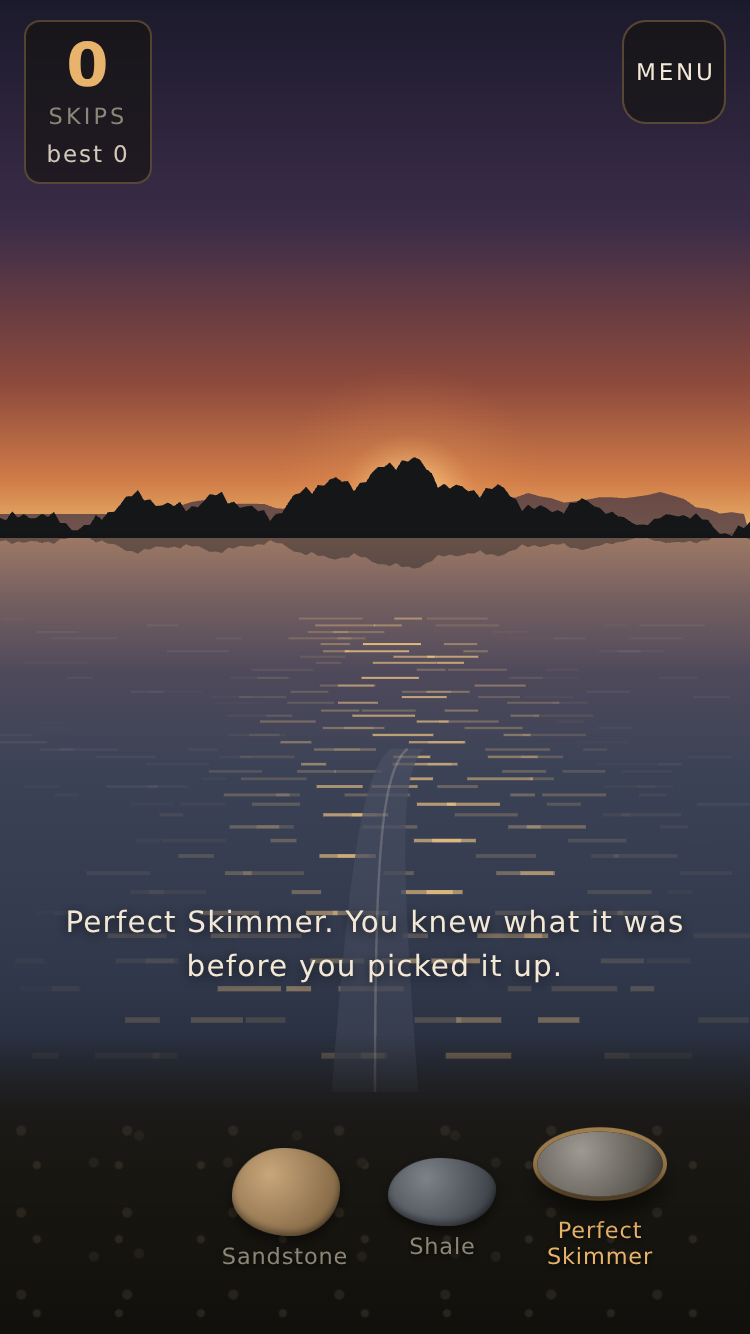
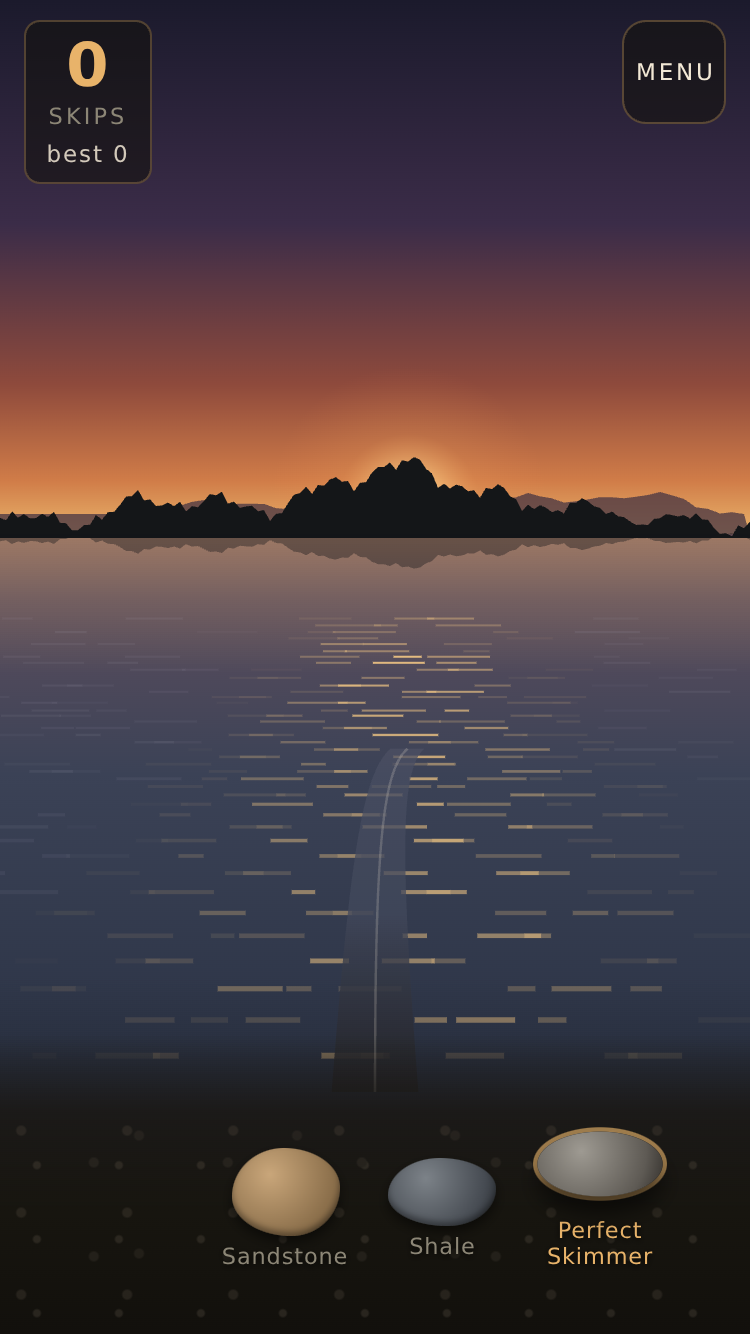
Gerplunk P1: the audio gate hears the trill, and the plunk stops burying its last tick
test/audio.mjs renders a throw's ticks and plunk offline through the same two
functions the speaker uses and counts onsets in the buffer: ten for a ten
skip throw plus the plunk, eighteen for the seventeen skip trill, every tick
within 16 ms of its skip. It found that a slow ending sank on its last hit so
the plunk landed on the last tick; a slow ending now takes a 120 ms beat in
sound and picture. Lap, crickets and the loon from the seeded stream. The
seam fades into the bank. Six gates, ALL GATES PASSED, audio watched to fail.

Claude-Session: https://claude.ai/code/session_01CohA1CK6e5eCWUdrKWPpuM

diff --git a/satellites/gerplunk/index.html b/satellites/gerplunk/index.html
@@ -1220,6 +1220,14 @@ var G = {
   lastSamples: null
 };
 function nowMs() { return performance.now(); }
+/* ⛔ WHEN THE STONE RUNS OUT OF SPEED, THE SINK IS A BEAT AFTER THE LAST HIT.
+   The model ends a 'slow' throw at the instant of its final skip, so the plunk
+   would land on top of the last tick of the trill and bury it: the audio gate
+   heard seventeen onsets for seventeen skips and a plunk. A stone that has
+   stopped skipping bobs once and goes under, so the page gives it 120 ms. A
+   tumble or a plow sinks at the failed contact, which is already after the
+   last tick by one whole leap. */
+function sinkTimeOf(res) { return res.ended === 'slow' ? res.time + 0.12 : res.time; }
 
 /* ============================ 12. SAVE ============================ */
 var SAVE = {
@@ -1294,33 +1302,61 @@ var AUDIO = (function () {
     return true;
   }
   function keep(node, until) { live.push({ node: node, until: until }); }
-  function tick(at, i) {
-    if (!ac) return;
-    var o = ac.createOscillator(), g = ac.createGain();
+  /* the tick and the plunk take their context and their output, so the same
+     two functions play through the speaker and render into the audio gate's
+     offline buffer. One voice, two listeners. */
+  function tick(ctx, out, at, i) {
+    var o = ctx.createOscillator(), g = ctx.createGain();
     o.type = 'sine'; o.frequency.value = SERIES[i % SERIES.length] * (i >= SERIES.length ? 0.5 : 1);
     g.gain.setValueAtTime(0.0001, at);
     g.gain.exponentialRampToValueAtTime(0.5, at + 0.006);
     g.gain.exponentialRampToValueAtTime(0.0001, at + 0.11);
-    o.connect(g); g.connect(master);
+    o.connect(g); g.connect(out);
     o.start(at); o.stop(at + 0.13);
-    keep(o, at + 0.13);
-    ticks++;
+    return o;
   }
-  function plunk(at) {
-    if (!ac) return;
-    var o = ac.createOscillator(), g = ac.createGain();
+  function plunk(ctx, out, at) {
+    var o = ctx.createOscillator(), g = ctx.createGain();
     o.type = 'sine'; o.frequency.setValueAtTime(150, at); o.frequency.exponentialRampToValueAtTime(95, at + 0.25);
     g.gain.setValueAtTime(0.0001, at);
     g.gain.exponentialRampToValueAtTime(0.7, at + 0.012);
     g.gain.exponentialRampToValueAtTime(0.0001, at + 0.42);
-    o.connect(g); g.connect(master); o.start(at); o.stop(at + 0.45); keep(o, at + 0.45);
+    o.connect(g); g.connect(out); o.start(at); o.stop(at + 0.45);
     /* the splash: 80 ms of noise through a low pass */
-    var n = ac.sampleRate * 0.1, buf = ac.createBuffer(1, n, ac.sampleRate), d = buf.getChannelData(0), i;
+    var n = Math.floor(ctx.sampleRate * 0.1), buf = ctx.createBuffer(1, n, ctx.sampleRate), d = buf.getChannelData(0), i;
     for (i = 0; i < n; i++) d[i] = (Math.random() * 2 - 1) * (1 - i / n);
-    var src = ac.createBufferSource(); src.buffer = buf;
-    var f = ac.createBiquadFilter(); f.type = 'lowpass'; f.frequency.value = 1800;
-    var ng = ac.createGain(); ng.gain.setValueAtTime(0.35, at); ng.gain.exponentialRampToValueAtTime(0.0001, at + 0.1);
-    src.connect(f); f.connect(ng); ng.connect(master); src.start(at); src.stop(at + 0.11); keep(src, at + 0.11);
+    var src = ctx.createBufferSource(); src.buffer = buf;
+    var f = ctx.createBiquadFilter(); f.type = 'lowpass'; f.frequency.value = 1800;
+    var ng = ctx.createGain(); ng.gain.setValueAtTime(0.35, at); ng.gain.exponentialRampToValueAtTime(0.0001, at + 0.1);
+    src.connect(f); f.connect(ng); ng.connect(out); src.start(at); src.stop(at + 0.11);
+    return [o, src];
+  }
+  /* THE AUDIO GATE'S EAR. Renders a result's ticks and plunk into an offline
+     buffer through the same two functions and reports the peak and the onsets
+     it can hear, so "one tick per skip" is measured in the sound rather than
+     counted in a variable. */
+  function renderOffline(res) {
+    var OAC = window.OfflineAudioContext || window.webkitOfflineAudioContext;
+    if (!OAC) return Promise.reject(new Error('no OfflineAudioContext'));
+    var sr = 22050, dur = sinkTimeOf(res) + 0.9, octx = new OAC(1, Math.ceil(sr * dur), sr);
+    var out = octx.createGain(); out.gain.value = 0.8; out.connect(octx.destination);
+    var t0 = 0.05, i;
+    for (i = 0; i < res.events.length; i++) tick(octx, out, t0 + res.events[i].t, i);
+    plunk(octx, out, t0 + sinkTimeOf(res));
+    return octx.startRendering().then(function (buf) {
+      var d = buf.getChannelData(0), peak = 0, j, k, sum, win = Math.floor(sr * 0.005), env = [];
+      for (j = 0; j < d.length; j++) if (Math.abs(d[j]) > peak) peak = Math.abs(d[j]);
+      for (j = 0; j + win <= d.length; j += win) {
+        sum = 0; for (k = 0; k < win; k++) sum += d[j + k] * d[j + k];
+        env.push(Math.sqrt(sum / win));
+      }
+      var onsets = [], armed = true;
+      for (j = 0; j < env.length; j++) {
+        if (armed && env[j] > 0.06) { onsets.push(j * 0.005 - t0); armed = false; }
+        else if (!armed && env[j] < 0.015) armed = true;
+      }
+      return { peak: peak, onsets: onsets, seconds: dur };
+    });
   }
   function setdown() {
     if (!ac) return;
@@ -1329,6 +1365,59 @@ var AUDIO = (function () {
     g.gain.setValueAtTime(0.0001, at); g.gain.exponentialRampToValueAtTime(0.12, at + 0.01);
     g.gain.exponentialRampToValueAtTime(0.0001, at + 0.08);
     o.connect(g); g.connect(master); o.start(at); o.stop(at + 0.09);
+  }
+  /* THE AMBIENCE. Water lap as filtered noise swells every three to six
+     seconds, a cricket bed as a 4 kHz chirp train, and a loon every forty to
+     ninety seconds: a sine gliding 660 to 880 with vibrato over 1.2 s. The
+     timings come from the seeded ambient stream so the same evening is the
+     same evening. Gains are small on purpose; the ticks are the score. */
+  var amb = null;
+  function noiseBuf(sec) {
+    var n = Math.floor(ac.sampleRate * sec), b = ac.createBuffer(1, n, ac.sampleRate), d = b.getChannelData(0), i;
+    for (i = 0; i < n; i++) d[i] = Math.random() * 2 - 1;
+    return b;
+  }
+  function lap(at, rng) {
+    var src = ac.createBufferSource(); src.buffer = noiseBuf(1.2);
+    var f = ac.createBiquadFilter(); f.type = 'bandpass'; f.frequency.value = 320 + rng() * 500; f.Q.value = 0.7;
+    var g = ac.createGain();
+    g.gain.setValueAtTime(0.0001, at);
+    g.gain.exponentialRampToValueAtTime(0.05 + rng() * 0.04, at + 0.35 + rng() * 0.3);
+    g.gain.exponentialRampToValueAtTime(0.0001, at + 1.1);
+    src.connect(f); f.connect(g); g.connect(master); src.start(at); src.stop(at + 1.2);
+  }
+  function chirp(at, rng) {
+    var o = ac.createOscillator(), g = ac.createGain(), am = ac.createOscillator(), ag = ac.createGain();
+    o.type = 'sine'; o.frequency.value = 3900 + rng() * 500;
+    am.type = 'sine'; am.frequency.value = 26 + rng() * 10; ag.gain.value = 0.5;
+    am.connect(ag); ag.connect(g.gain);
+    g.gain.setValueAtTime(0.0001, at);
+    g.gain.exponentialRampToValueAtTime(0.022, at + 0.03);
+    g.gain.setValueAtTime(0.022, at + 0.25 + rng() * 0.2);
+    g.gain.exponentialRampToValueAtTime(0.0001, at + 0.5);
+    o.connect(g); g.connect(master); o.start(at); am.start(at); o.stop(at + 0.55); am.stop(at + 0.55);
+  }
+  function loon(at) {
+    var o = ac.createOscillator(), g = ac.createGain(), v = ac.createOscillator(), vg = ac.createGain();
+    o.type = 'sine';
+    o.frequency.setValueAtTime(660, at); o.frequency.linearRampToValueAtTime(880, at + 0.5);
+    o.frequency.setValueAtTime(880, at + 0.8); o.frequency.linearRampToValueAtTime(700, at + 1.2);
+    v.frequency.value = 5.5; vg.gain.value = 14; v.connect(vg); vg.connect(o.frequency);
+    g.gain.setValueAtTime(0.0001, at); g.gain.exponentialRampToValueAtTime(0.09, at + 0.15);
+    g.gain.setValueAtTime(0.09, at + 0.9); g.gain.exponentialRampToValueAtTime(0.0001, at + 1.25);
+    o.connect(g); g.connect(master); o.start(at); v.start(at); o.stop(at + 1.3); v.stop(at + 1.3);
+  }
+  function ambience(seed) {
+    if (!ac || amb) return;
+    var rng = makeRNG(mixSeed(seed, STREAM_AMBIENT));
+    var nextLap = ac.currentTime + 1, nextChirp = ac.currentTime + 0.5, nextLoon = ac.currentTime + 20 + rng() * 40;
+    amb = setInterval(function () {
+      if (!ac || ac.state !== 'running') return;
+      var now = ac.currentTime, horizon = now + 1.5;
+      while (nextLap < horizon) { lap(nextLap, rng); nextLap += 3 + rng() * 3; }
+      while (nextChirp < horizon) { chirp(nextChirp, rng); nextChirp += 0.6 + rng() * 0.7; }
+      if (nextLoon < horizon) { loon(nextLoon); nextLoon += 40 + rng() * 50; }
+    }, 700);
   }
   /* a new throw cuts the old one's ticks; a lake does not echo the last stone */
   function cut() {
@@ -1341,12 +1430,15 @@ var AUDIO = (function () {
     schedule: function (res) {
       if (!ensure()) return 0;
       cut();
-      var t0 = ac.currentTime + 0.03, i;
-      for (i = 0; i < res.events.length; i++) tick(t0 + res.events[i].t, i);
-      plunk(t0 + res.time);
+      var t0 = ac.currentTime + 0.03, i, o;
+      for (i = 0; i < res.events.length; i++) { o = tick(ac, master, t0 + res.events[i].t, i); keep(o, t0 + res.events[i].t + 0.13); ticks++; }
+      var ts = sinkTimeOf(res), pl = plunk(ac, master, t0 + ts);
+      keep(pl[0], t0 + ts + 0.45); keep(pl[1], t0 + ts + 0.11);
       return res.events.length;
     },
     setdown: setdown,
+    ambience: ambience,
+    renderOffline: renderOffline,
     setOn: function (v) { on = !!v; if (master) master.gain.value = on ? 0.8 : 0; },
     ticks: function () { return ticks; },
     ready: function () { return !!ac; }
@@ -1500,6 +1592,10 @@ function drawSeam() {
     CTX.lineTo(q.x, q.y);
   }
   CTX.closePath(); CTX.fill();
+  /* the near end fades into the bank's shadow rather than ending in an edge */
+  var sy = shoreY(), fade = CTX.createLinearGradient(0, sy - 90, 0, sy + 10);
+  fade.addColorStop(0, 'rgba(16,14,12,0)'); fade.addColorStop(1, 'rgba(16,14,12,0.8)');
+  CTX.fillStyle = fade; CTX.fill();
   /* and a glassy sheen over the calm, a shade lighter than the water round it,
      stronger under a live thumb so the turn is something you can watch */
   CTX.fillStyle = G.touch ? 'rgba(200,196,214,0.11)' : 'rgba(200,196,214,0.07)';
@@ -1576,9 +1672,9 @@ function stepThrow() {
     G.tallyShown = P.next;
     $('tally').textContent = String(P.next);
   }
-  if (!P.sunk && t >= P.res.time) {
+  if (!P.sunk && t >= sinkTimeOf(P.res)) {
     P.sunk = true;
-    G.rings.push({ x: P.res.sinkX, y: P.res.sinkY, t: P.res.time, k: 1.7 });
+    G.rings.push({ x: P.res.sinkX, y: P.res.sinkY, t: sinkTimeOf(P.res), k: 1.7 });
     var sp = proj(P.res.sinkX - G.cam, P.res.sinkY, 0);
     $('plunk').style.top = Math.round(sp.y - 22) + 'px';
     $('plunk').classList.add('on');
@@ -1621,7 +1717,7 @@ function onDown(e) {
   if (G.screen !== 'lake') return;
   if (G.touch) return;
   e.preventDefault();
-  AUDIO.ensure();
+  if (AUDIO.ensure()) AUDIO.ambience(dailySeedFor(G.day));
   try { CV.setPointerCapture(e.pointerId); } catch (x) {}
   G.touch = { id: e.pointerId, samples: [{ x: e.clientX, y: e.clientY, t: e.timeStamp }], yaw0: G.yaw, detent: Math.floor(G.yaw / 5) };
   G.liveYaw = G.yaw;
@@ -1718,7 +1814,7 @@ function wire() {
   CV.addEventListener('pointermove', onMove);
   CV.addEventListener('pointerup', onUp);
   CV.addEventListener('pointercancel', onCancel);
-  press('btnPlay', function () { AUDIO.ensure(); showScreen('lake'); });
+  press('btnPlay', function () { if (AUDIO.ensure()) AUDIO.ambience(dailySeedFor(G.day)); showScreen('lake'); });
   press('btnMenu', function () { showScreen('sheet'); });
   press('btnBack', function () { showScreen('lake'); });
   press('btnExit', function () { window.SWS_EXIT(); });
@@ -1840,6 +1936,12 @@ window.GERPLUNK_DEV = {
   audioReady: function () { return AUDIO.ready(); },
   save: function () { return SAVE.read(); },
   layout: function () { return { W: W, H: H, horizon: horizonY(), shore: shoreY() }; },
+  /* the audio gate's ear: run a named throw through the model and render its
+     ticks and plunk offline, reporting what can be HEARD in the buffer */
+  renderAudio: function (spec) {
+    var res = runThrow(newThrow(spec), throwEnv(spec.yaw || 0, false));
+    return AUDIO.renderOffline(res).then(function (r) { r.skips = res.skips; r.time = res.time; r.sink = sinkTimeOf(res); r.ended = res.ended; r.events = res.events.map(function (e) { return e.t; }); return r; });
+  },
   /* camera only */
   hold: function (t) { G.hold = t !== null && t !== undefined; if (G.hold) G.holdT = t; },
   seek: function (t) { if (G.play) G.play.t0 = nowMs() - t * 1000; }

diff --git a/satellites/gerplunk/tools/check.js b/satellites/gerplunk/tools/check.js
@@ -34,7 +34,8 @@ const GATES = [
    core box, so a failure here is rerun ALONE, twice, before it is believed. */
 const BROWSER_GATES = [
   { name: 'flick',  cmd: ['test/flick.mjs'],  need: 'FLICK OK' },
-  { name: 'layout', cmd: ['test/layout.mjs'], need: 'LAYOUT OK' }
+  { name: 'layout', cmd: ['test/layout.mjs'], need: 'LAYOUT OK' },
+  { name: 'audio',  cmd: ['test/audio.mjs'],  need: 'AUDIO OK' }
 ];
 
 const results = [];

diff --git a/plans/gerplunk/HANDOFF-GERPLUNK.md b/plans/gerplunk/HANDOFF-GERPLUNK.md
@@ -73,15 +73,18 @@ on branch `add-sproing-jumper` tonight.
   plant (D18) and the turn survives a set down by design; the game was right and
   the gate was rewritten to say what the design says. Lesson kept in the gate's
   header.
-  **Thin:** no audio gate (P1 step 4, test/audio.mjs, not written); no loon,
-  crickets or lap; no slow motion on a record; the tally is a number rather
+  13:23Z: `test/audio.mjs` written and wired, SIX gates now. It found a real
+  audible flaw the hour it was written: a throw that ends slow sinks AT its
+  last hit in the model, so the plunk landed on the last tick of the trill and
+  buried it (17 onsets for 17 skips and a plunk). The page now gives a slow
+  ending a 120 ms beat before the plunk, in the sound and the picture (D34).
+  Lap, crickets and the loon are in, synthesised, from the seeded stream (D35).
+  **Thin:** no slow motion on a record; the tally is a number rather
   than marks on a post; the sink rings stack into a spring on a straight throw;
   the seam ends in a hard edge at the shore; the thumb's bottom third is empty
   water. The three faces of the lake are P2, so the turn changes where the stone
   lands and how the seam bends but not yet the water it lands on.
-  **Next action:** P1 step 4, `test/audio.mjs` (offline render, one tick onset per
-  skip then the plunk, peak under 0.99, copy Keepsies' audio_budget shape),
-  wire it into tools/check.js, watch it fail. Then P2 step 1 (section 5): the
+  **Next action:** P2 step 1 (section 5): the
   stone in the palm, the pebble bed by career, RECORDS per stone, in
   `index.html` after section 13 THE DAY, replacing the fixed offer in
   `setupDay` (the skimmer is pinned to slot three tonight so the gate can find
@@ -573,6 +576,29 @@ The throw table, `node sim.js --throw=12,20,1,skimmer`:
     17    3.242s    27.49m       0.067s     2.43     12.19
   17 skips, 27.49 m, 3.24 s, and it ended: slow
 ```
+
+The audio gate, and the finding it made (the beat removed by mutation):
+
+```
+  ok    the middling throw is a ten skip throw: 10 skips
+  ok    it renders one onset per skip and one for the plunk: 11 onsets for 10 skips
+  ok    and every tick of the trill is its own onset: 18 onsets for 17 skips
+  ok    the last two hits are under 90 ms apart, which is the trill: 67 ms
+  ok    every tick lands within 16 ms of its skip: worst 13.3 ms
+  ok    and the plunk lands at the sink: 3370 ms against 3362 (slow)
+  ok    a stone that ran out of speed goes under a beat after its last tick: 120 ms
+  ok    the peak stays under 0.99: 0.570 and 0.803
+  ok    a throw that never skips renders the plunk alone: 1 onset for 0 skips
+AUDIO OK
+
+$ (sinkTimeOf made to return res.time)
+  FAIL  it renders one onset per skip and one for the plunk: 10 onsets for 10 skips
+  FAIL  and every tick of the trill is its own onset: 17 onsets for 17 skips
+  FAIL  a stone that ran out of speed goes under a beat after its last tick: 0 ms
+3 AUDIO FAILURE(S)
+```
+
+The suite at 13:22Z: lint, sim, sweep, flick 19s, layout 13s, audio 5s, ALL GATES PASSED.
 
 The shots, all opened, faults named in SESSION STATE: `docs/shots/p1-flight.png`
 (stone up between skips two and three with the shadow under it and the sun

diff --git a/satellites/gerplunk/docs/DECISIONS.md b/satellites/gerplunk/docs/DECISIONS.md
@@ -301,3 +301,19 @@ the fault the plan warned about. Now gold falls in a gaussian around the sun's
 reflection that widens toward the shore, and off the road a row only shows a
 segment where a wave crest happens to face the sky, so most of the water is
 dark. Seen, not reasoned: three rounds of shots.
+
+**D34. A slow ending sinks a beat after its last tick.** The model ends a
+'slow' throw at the instant of its final skip, so the plunk was scheduled on
+top of the last tick of the trill and buried it; the audio gate heard seventeen
+onsets for seventeen skips and a plunk. A stone that has stopped skipping bobs
+once and goes under, so `sinkTimeOf` gives a slow ending 120 ms, in the sound
+and in the picture. A tumble or a plow sinks at the failed contact, which is
+already a whole leap after the last tick. The model is untouched; this is the
+page's reading of it.
+
+**D35. The ambience is synthesised from the seeded stream.** Lap (band passed
+noise swells every three to six seconds), crickets (a 4 kHz sine amplitude
+modulated near 30 Hz, half second chirps), and the loon (660 to 880 Hz with
+vibrato over 1.2 s, every forty to ninety seconds), all at small gains so the
+ticks stay the score. Started on the first gesture, because a context cannot
+open without one.
